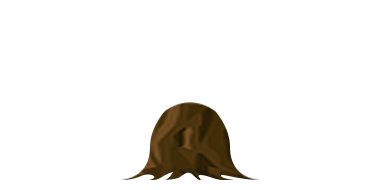
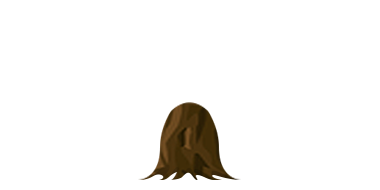
trunk final update + aligned rotation

Changed region(s): [[0.3184, 0.5263, 0.6947, 0.9474]]

diff --git a/css/styles.css b/css/styles.css
@@ -1,1 +1,1 @@
-html,body,div,span,applet,object,iframe,h1,h2,h3,h4,h5,h6,p,blockquote,pre,a,abbr,acronym,address,big,cite,code,del,dfn,em,img,ins,kbd,q,s,samp,small,strike,strong,sub,sup,tt,var,b,u,i,center,dl,dt,dd,ol,ul,li,fieldset,form,label,legend,table,caption,tbody,tfoot,thead,tr,th,td,article,aside,canvas,details,embed,figure,figcaption,footer,header,hgroup,menu,nav,output,ruby,section,summary,time,mark,audio,video{margin:0;padding:0;font-size:12px;font:inherit}article,aside,details,figcaption,figure,footer,header,hgroup,menu,nav,section{display:block}body{line-height:1}ol,ul{list-style:none}blockquote,q{quotes:none}blockquote:before,blockquote:after,q:before,q:after{content:'';content:none}table{border-collapse:collapse;border-spacing:0}:focus{outline:none}::-moz-focus-inner{border:0}*:focus{outline:0}*{margin:0;box-sizing:border-box}html,body{margin:0;padding:0;background-color:white;color:#666666;font-size:15px;font-family:Helvetica,Verdana,monospace;height:100%;min-height:100%}img{border-style:none;vertical-align:top}a{text-decoration:underline;color:#ccc;font-weight:bold;font-family:Helvetica,Verdana,monospace;font-size:1em}a:hover{text-decoration:none}h1{color:#fff;font-family:Arial,cursive,sans-serif;font-weight:normal;text-align:center;font-size:50px;line-height:1.2em;padding:10px 0px;margin:0px auto 0px}h2{color:#fff;font-family:Helvetica,Verdana,monospace;font-weight:normal;text-align:left;font-size:3.2em;line-height:1em;margin:0px 0px 20px;padding-top:30px}h3{color:#fff;font-family:Times,sans-serif;font-weight:normal;text-align:center;font-size:1.8em;line-height:1.2em;margin:0px 0px 15px 0px}h4{color:#fff;font-family:Helvetica,Verdana,monospace;font-weight:normal;text-align:center;font-size:31px;line-height:1.2em;margin:0px 0px 15px}h5{font-family:Arial,sans-serif;font-weight:bold;color:black;font-size:1.1em;line-height:1.4em}h6{font-family:Arial,sans-serif;font-weight:bold;color:black;font-size:1.6em;line-height:1.6em;margin:0;padding:0}p{color:#fff;font-size:1.1em;font-family:Helvetica,Verdana,monospace;text-align:left;line-height:1.3em;margin-top:8px;margin-bottom:20px}.main{background:rgba(0,255,0,0.2);color:white;font-weight:bold;position:absolute;top:0;width:100%}.float-containers{overflow:hidden;width:100%}.fl{float:left;width:60%}.fr{float:right;width:39%}.onethird{width:32%;float:left}.marginleft{margin-left:2%}.medium-col{float:left;width:49%}.footer{position:fixed;bottom:10px;right:10px;z-index:9;padding-top:200px}label{font-family:Helvetica,Verdana,monospace;color:#fff;font-size:1em;line-height:1.4em}ul{list-style:disc;color:white}ul li{color:white;font-family:Helvetica,Verdana,monospace;font-size:1.6em;line-height:1.6em;font-weight:100}hr{margin-top:5px;margin-bottom:8px;border:none;border-bottom:1px solid #d9d9d9}.input-wrap{border-radius:5px;-moz-border-radius:5px;-webkit-border-radius:5px;border:1px solid #000;border-bottom:3px solid #000;background:url("../images/btn_input.jpg") no-repeat;color:white;width:100%;max-width:400px;margin:0 auto 15px}select{background:none;text-align:left;font-size:2em;border:none;width:95%;color:white;margin:0px 10px 4px;-webkit-appearance:none;-moz-appearance:none;background:url("../images/select.png") no-repeat 95% 50% !important}.error{border-color:red}.buttonbg{width:100%;max-width:400px;margin:10px auto 10px;text-align:center}.button{display:block;width:100%;color:#fff;font-size:40px;line-height:42px;padding:5px 0px 5px;font-family:Arial,sans-serif;text-shadow:2px 2px 1px rgba(30,30,30,0.8);-webkit-border-radius:10px;-moz-border-radius:10px;border-radius:10px;background:url("../images/btn_bg.png") 0 0 no-repeat;-webkit-box-shadow:2px 2px 10px rgba(50,50,50,0.71);-moz-box-shadow:2px 2px 10px rgba(50,50,50,0.71);box-shadow:2px 2px 10px rgba(50,50,50,0.71);text-decoration:none}a.button:hover{color:black}.container{position:relative;width:100%;margin:0 auto;height:100%;min-height:100%;text-align:center;background-size:cover;overflow-x:hidden}::-webkit-input-placeholder{color:white}:-moz-placeholder{color:white;opacity:1}::-moz-placeholder{color:white;opacity:1}:-ms-input-placeholder{color:white}@media only screen and (min-width: 320px){.container{width:100%;overflow:hidden;height:100%;max-width:960px}#tree .segment>img{width:100%;min-height:180px;height:auto}#tree .ornament>img{margin:0 15px}}@media only screen and (min-width: 480px){#tree{max-width:960px}#tree .segment>img{width:auto}#tree .ornament>img{margin:0 25px}}@media only screen and (min-width: 768px){#tree{width:100%}}
+html,body,div,span,applet,object,iframe,h1,h2,h3,h4,h5,h6,p,blockquote,pre,a,abbr,acronym,address,big,cite,code,del,dfn,em,img,ins,kbd,q,s,samp,small,strike,strong,sub,sup,tt,var,b,u,i,center,dl,dt,dd,ol,ul,li,fieldset,form,label,legend,table,caption,tbody,tfoot,thead,tr,th,td,article,aside,canvas,details,embed,figure,figcaption,footer,header,hgroup,menu,nav,output,ruby,section,summary,time,mark,audio,video{margin:0;padding:0;font-size:12px;font:inherit}article,aside,details,figcaption,figure,footer,header,hgroup,menu,nav,section{display:block}body{line-height:1}ol,ul{list-style:none}blockquote,q{quotes:none}blockquote:before,blockquote:after,q:before,q:after{content:'';content:none}table{border-collapse:collapse;border-spacing:0}:focus{outline:none}::-moz-focus-inner{border:0}*:focus{outline:0}*{margin:0;box-sizing:border-box}html,body{margin:0;padding:0;background-color:white;color:#666666;font-size:15px;font-family:Helvetica,Verdana,monospace;height:100%;min-height:100%}img{border-style:none;vertical-align:top}a{text-decoration:underline;color:#ccc;font-weight:bold;font-family:Helvetica,Verdana,monospace;font-size:1em}a:hover{text-decoration:none}h1{color:#fff;font-family:Arial,cursive,sans-serif;font-weight:normal;text-align:center;font-size:50px;line-height:1.2em;padding:10px 0px;margin:0px auto 0px}h2{color:#fff;font-family:Helvetica,Verdana,monospace;font-weight:normal;text-align:left;font-size:3.2em;line-height:1em;margin:0px 0px 20px;padding-top:30px}h3{color:#fff;font-family:Times,sans-serif;font-weight:normal;text-align:center;font-size:1.8em;line-height:1.2em;margin:0px 0px 15px 0px}h4{color:#fff;font-family:Helvetica,Verdana,monospace;font-weight:normal;text-align:center;font-size:31px;line-height:1.2em;margin:0px 0px 15px}h5{font-family:Arial,sans-serif;font-weight:bold;color:black;font-size:1.1em;line-height:1.4em}h6{font-family:Arial,sans-serif;font-weight:bold;color:black;font-size:1.6em;line-height:1.6em;margin:0;padding:0}p{color:#fff;font-size:1.1em;font-family:Helvetica,Verdana,monospace;text-align:left;line-height:1.3em;margin-top:8px;margin-bottom:20px}.main{background:rgba(0,255,0,0.2);color:white;font-weight:bold;position:absolute;top:0;width:100%}.float-containers{overflow:hidden;width:100%}.fl{float:left;width:60%}.fr{float:right;width:39%}.onethird{width:32%;float:left}.marginleft{margin-left:2%}.medium-col{float:left;width:49%}.footer{position:fixed;bottom:10px;right:10px;z-index:9;padding-top:200px}label{font-family:Helvetica,Verdana,monospace;color:#fff;font-size:1em;line-height:1.4em}ul{list-style:disc;color:white}ul li{color:white;font-family:Helvetica,Verdana,monospace;font-size:1.6em;line-height:1.6em;font-weight:100}hr{margin-top:5px;margin-bottom:8px;border:none;border-bottom:1px solid #d9d9d9}.input-wrap{border-radius:5px;-moz-border-radius:5px;-webkit-border-radius:5px;border:1px solid #000;border-bottom:3px solid #000;background:url("../images/btn_input.jpg") no-repeat;color:white;width:100%;max-width:400px;margin:0 auto 15px}select{background:none;text-align:left;font-size:2em;border:none;width:95%;color:white;margin:0px 10px 4px;-webkit-appearance:none;-moz-appearance:none;background:url("../images/select.png") no-repeat 95% 50% !important}.error{border-color:red}.buttonbg{width:100%;max-width:400px;margin:10px auto 10px;text-align:center}.button{display:block;width:100%;color:#fff;font-size:40px;line-height:42px;padding:5px 0px 5px;font-family:Arial,sans-serif;text-shadow:2px 2px 1px rgba(30,30,30,0.8);-webkit-border-radius:10px;-moz-border-radius:10px;border-radius:10px;background:url("../images/btn_bg.png") 0 0 no-repeat;-webkit-box-shadow:2px 2px 10px rgba(50,50,50,0.71);-moz-box-shadow:2px 2px 10px rgba(50,50,50,0.71);box-shadow:2px 2px 10px rgba(50,50,50,0.71);text-decoration:none}a.button:hover{color:black}.container{position:relative;width:100%;margin:0 auto;height:100%;min-height:100%;text-align:center;background-size:cover;overflow-x:hidden}::-webkit-input-placeholder{color:white}:-moz-placeholder{color:white;opacity:1}::-moz-placeholder{color:white;opacity:1}:-ms-input-placeholder{color:white}@media only screen and (min-width: 320px){.container{width:100%;overflow:hidden;height:100%;max-width:960px}#tree .segment>img{width:100%;max-width:auto;padding:0 5%;min-height:180px;height:auto}#tree .ornament>img{margin:0 15px}}@media only screen and (min-width: 480px){#tree{max-width:960px}#tree .segment>img{width:auto}#tree .ornament>img{margin:0 15px}}@media only screen and (min-width: 768px){#tree{width:100%}}

diff --git a/js/tree.js b/js/tree.js
@@ -195,12 +195,12 @@ HCSegment.prototype = {
 
         var previous = degrees;
         var center_y = 100;
-        var center_x = 38;
+        var center_x = 50;
 
         if (max_degree > 1) {
             for (var i = number_segments - 1; i >= 0; i--) {
                 previous += degrees;
-                center_x += 1;
+                center_x -= 1;
                 center_y += 15;
                 //duration += 10;
                 $("#segment_" + i)
@@ -234,7 +234,7 @@ HCSegment.prototype = {
 
         var previous = degrees;
         var center_y = 100;
-        var center_x = 38;
+        var center_x = 50;
         var ball_center_x = center_x;
 
         if (max_degree > 1) {

diff --git a/sass/styles.scss b/sass/styles.scss
@@ -455,6 +455,8 @@ a.button:hover {
     }
      #tree .segment > img {
         width: 100%;
+        max-width: auto;
+        padding:0 5%;
         min-height:180px;
         height: auto;
     }
@@ -474,7 +476,7 @@ a.button:hover {
         width: auto;
     }
      #tree .ornament > img {
-        margin: 0 25px;
+        margin: 0 15px;
     }
 }
 
